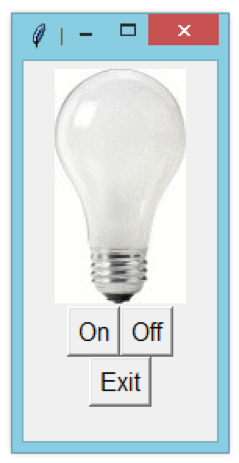
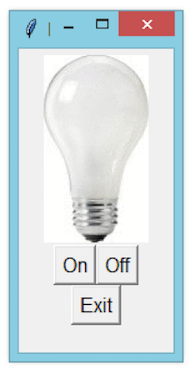
Updated lessons

diff --git a/index.html b/index.html
@@ -299,15 +299,14 @@
                     </section>
                     <section>
                         <h2>Adding images</h2>
-                        <p class="fragment">Now we’re going to add an image.</p>
-                        <p class="fragment">This needs to be done before the buttons:</p>
+                        <p class="fragment">Now we’re going to add an image (before the buttons).</p>
                         <img alt="Image" class="fragment" src="img/lesson4/3.png">
-                        <p class="fragment">Make sure pupils have <a href="downloads/bulb_on.gif">bulb_on.gif</a> & <a href="downloads/bulb_off.gif">bulb_off.gif</a>.</p>
                         <img alt="Image" class="fragment" src="img/lesson4/4.png">
+                        <p class="fragment">Download <a href="downloads/bulb_on.gif">bulb_on.gif</a> & <a href="downloads/bulb_off.gif">bulb_off.gif</a> to your python folder.</p>
                     </section>
                     <section>
                         <h2>Changing images</h2>
-                        <p class="fragment">The final step is to code the buttons to change the image. When the on button is pressed, the image should change to a lit bulb. When the off button is pressed it should revert back</p>
+                        <p class="fragment">Finally, the buttons - when the on button is pressed, show the on bulb & when the off button is pressed, show the off bulb.</p>
                         <img alt="Image" class="fragment" src="img/lesson4/5.png">
                         <img alt="Image" class="fragment" src="img/lesson4/6.png">
                     </section>
@@ -332,26 +331,30 @@
                         <ol>
                             <li class="fragment">Practice adding an image</li>
                             <li class="fragment">Practice using dialogs for validation</li>
-                            <li class="fragment">Practice arrays and randomization</li>
+                            <li class="fragment">Practice using arrays and randomization</li>
                             <li class="fragment">Know how to produce a sound</li>
                             
                         </ol>
                     </section>
                     <section>
                         <h2>Getting started</h2>
-                        <p class="fragment">The next project is a simple magic-8 ball. This has 4 rows of widgets:</p>
+                        <p class="fragment">The next project is a magic-8 ball, it has 4 rows of widgets:</p>
+                        <img alt="Image" class="fragment" src="img/lesson5/5.png">
                         <ul>
                             <li class="fragment">A text entry</li>
                             <li class="fragment">2 buttons</li>
                             <li class="fragment">An image</li>
-                            <li class="fragment">A Label</li>
+                            <li class="fragment">A label</li>
+                            <p>&nbsp;</p>
+                            <p>&nbsp;</p>
+                            <p>&nbsp;</p>
                         </ul>
                     </section>
                     <section>
                         <h2>Getting started</h2>
                         <p class="fragment">So, we need to create a window (passing in a title, and also setting it so it cant be resized):</p>
                         <img alt="Image" class="fragment" src="img/lesson5/1.png">
-                        <p class="fragment">Then, we add the 4 rows of widgets (this time giving separate functions for each button):</p>
+                        <p class="fragment">Then, we add the 4 rows of widgets (this time giving separate functions for each button). Image <a href="downloads/8ball.gif">here</a>:</p>
                         <img alt="Image" class="fragment" src="img/lesson5/2.png">
                     </section>
                     <section>
@@ -362,17 +365,13 @@
                         <img alt="Image" class="fragment" src="img/lesson5/4.png">
                     </section>
                     <section>
-                        <img alt="Image" class="fragment" src="img/lesson5/5.png">
-                    </section>
-                    <section>
                         <h2>Functions</h2>
                         <p class="fragment">Each button will now need its own function, clear will do the same as last time:</p>
                         <img alt="Image" class="fragment" src="img/lesson5/6.png">
                     </section>
                     <section>
-                        <h2>Answers & Sound</h2>
-                        <p class="fragment">Shake will check there is a question (show an error dialog if not) then pick a random answer to show in the label:</p>
-                        <p class="fragment">It can also play a sound – make sure you have the wav file (the library can only play wav files at the moment).</p>
+                        <h2>Answers</h2>
+                        <p class="fragment">Shake should validate the question (show an error dialog if it's empty) then pick a random answer to show in the label:</p>
                         <img alt="Image" class="fragment" src="img/lesson5/7.png">
                     </section>
                     <section>
@@ -380,6 +379,13 @@
                         <p class="fragment">In order for the shake function to work, you’ll need an array of answers, and to have imported random.</p>
                         <img alt="Image" class="fragment" src="img/lesson5/8.png">
                     </section>
+
+                    <section>
+                        <h2>Sounds</h2>
+                        <p class="fragment">appJar can even play a sound – make sure you have the wav file (the library can only play wav files at the moment).</p>
+                        <img alt="Image" class="fragment" src="img/lesson5/9.png">
+                    </section>
+
                     <section>
                         <h2>Extensions:</h2>
                         <p class="fragment">Try to validate the question:</p>
